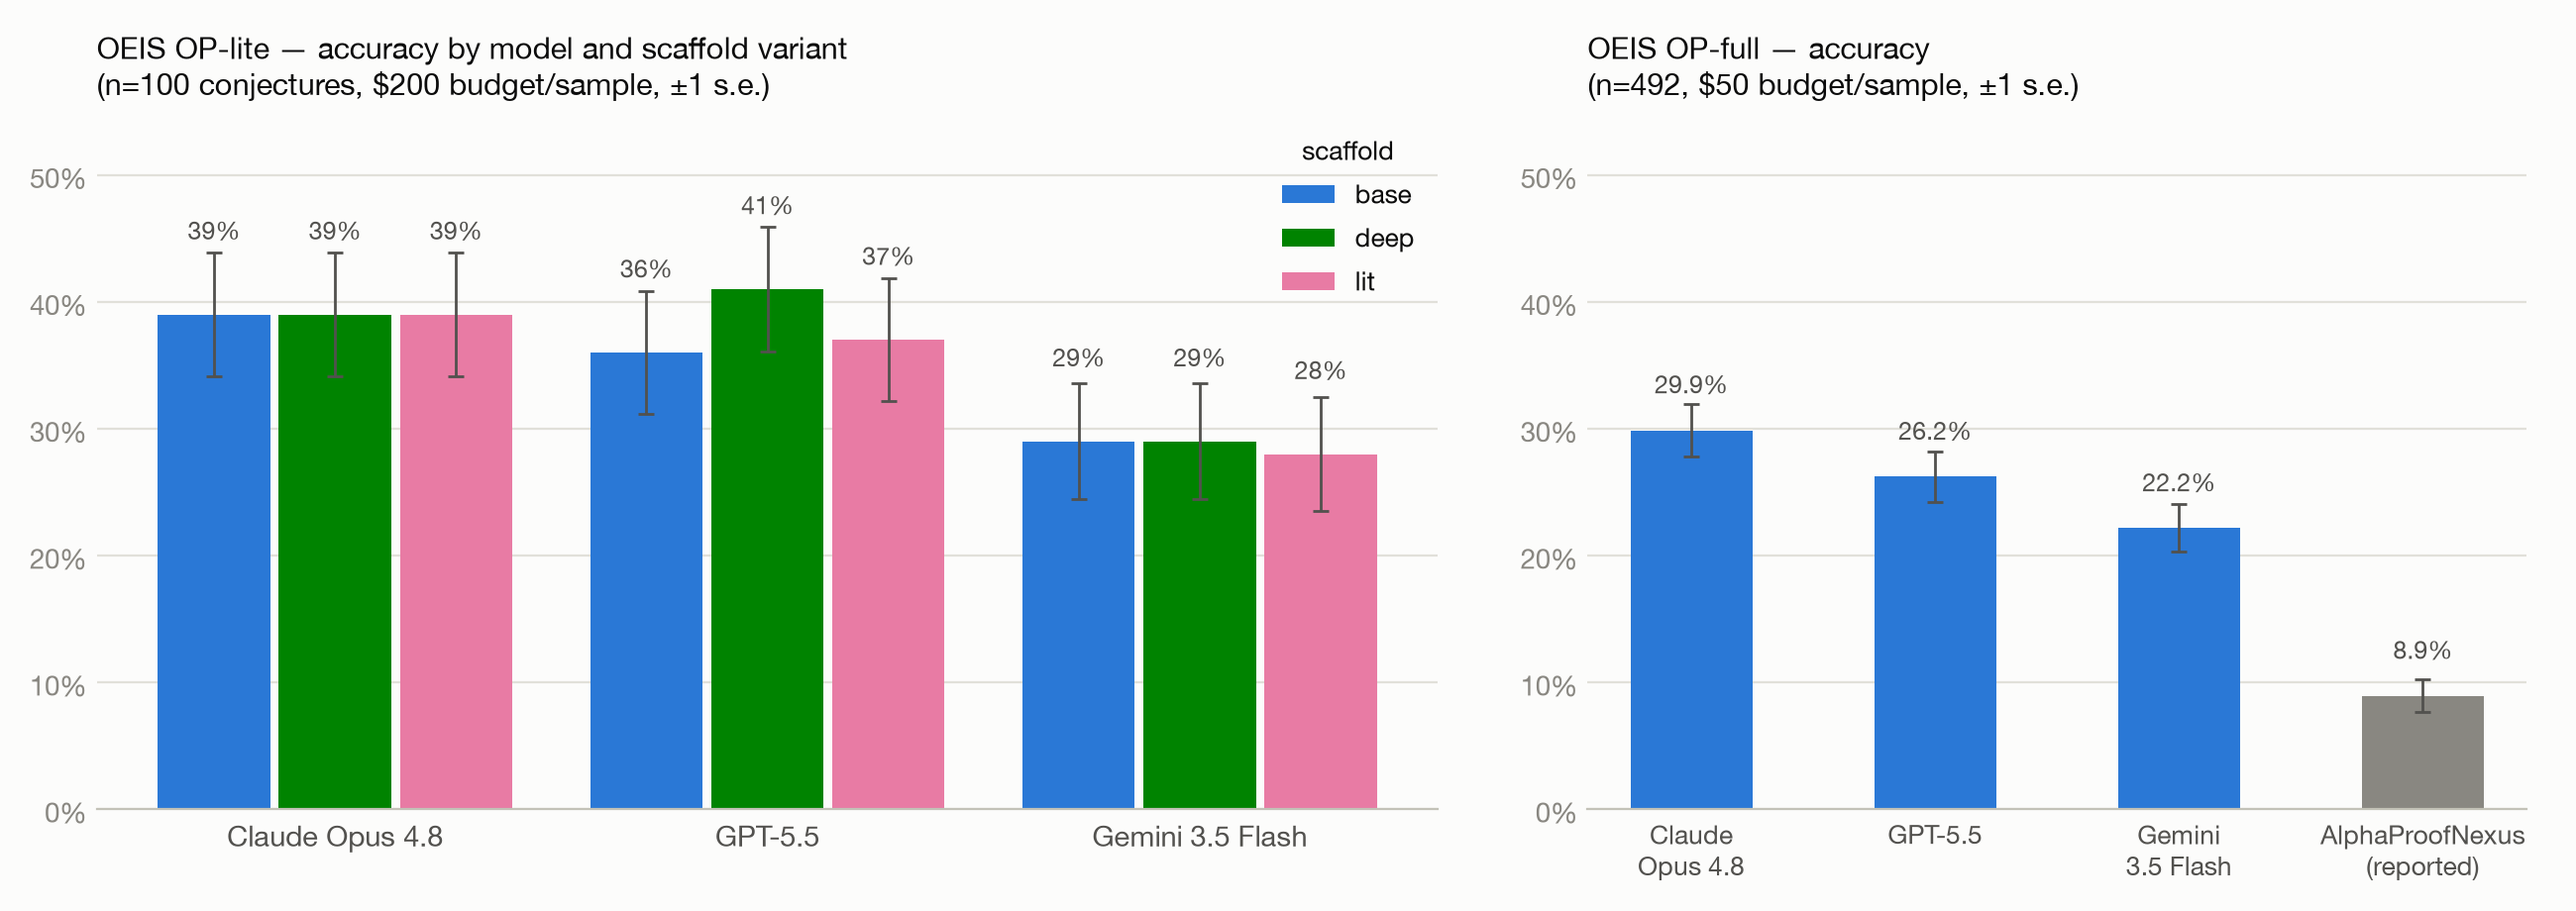
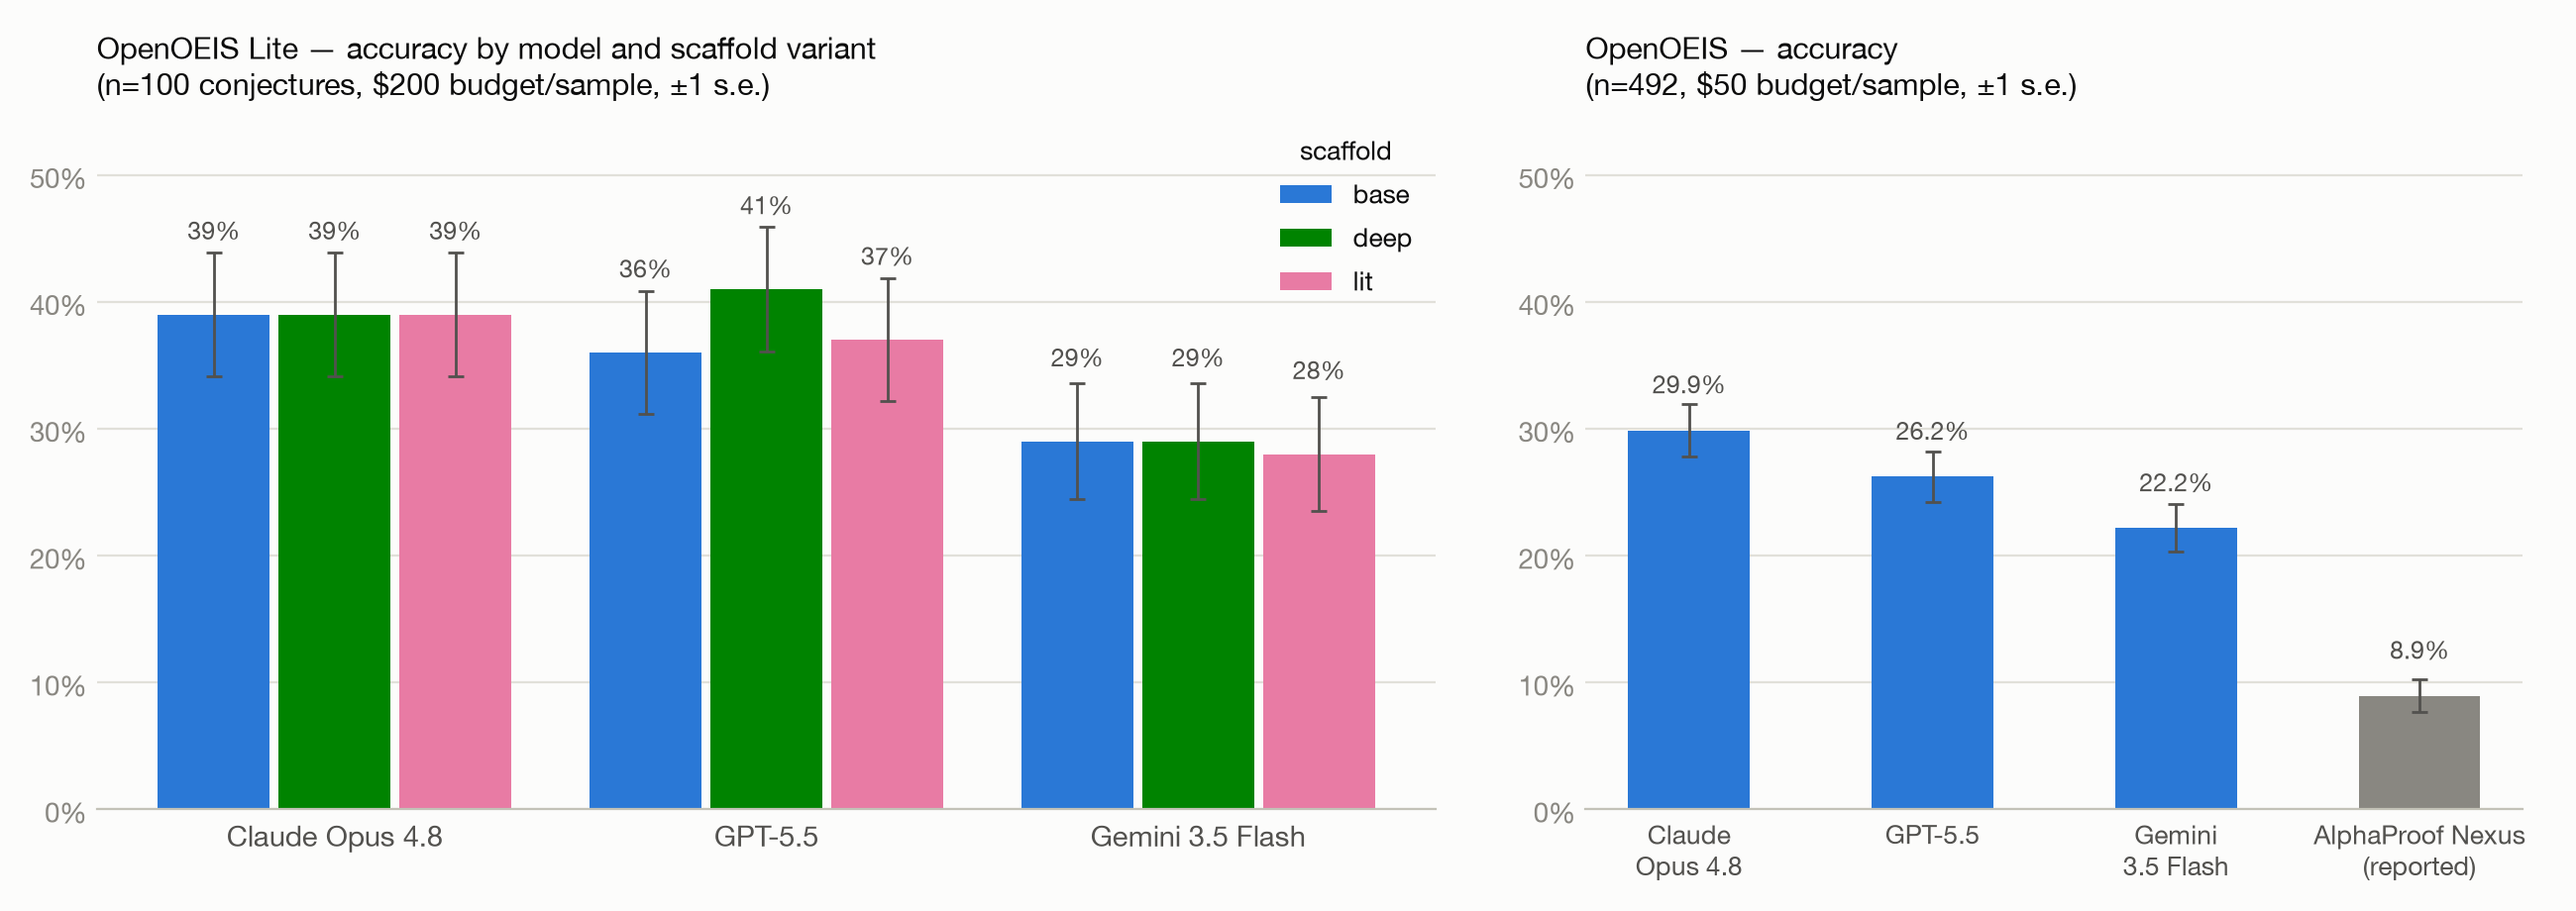
Name the benchmark once in plots/bench_names.py (now OpenOEIS); regen plots

diff --git a/plots/make_sample_plots.py b/plots/make_sample_plots.py
@@ -13,6 +13,8 @@ import matplotlib.pyplot as plt
 from matplotlib import rcParams
 from matplotlib.patches import Rectangle
 
+from bench_names import BENCH_FULL, BENCH_LITE
+
 LOGS = Path("logs")
 OUT = Path("plots")
 OUT.mkdir(exist_ok=True)
@@ -165,7 +167,7 @@ ax.text(ncol / 2, -1.0,
 for side in ("top", "right", "left", "bottom"):
     ax.spines[side].set_visible(False)
 ax.tick_params(length=0)
-ax.set_title(f"OEIS OP-lite — which conjectures each model solved\n"
+ax.set_title(f"{BENCH_LITE} — which conjectures each model solved\n"
              f"({len(ever)} conjectures solved by ≥1 run; paler shade = solved\n"
              f"by fewer of the 3 agent configs; cell label = mean cost of the\n"
              f"solving runs; rows sorted by mean solve cost; $200 budget/sample)",
@@ -177,8 +179,8 @@ print("wrote", OUT / "solve_matrix.png")
 # === plot 2: solved fraction vs spend ======================================
 fig, ax = plt.subplots(figsize=(8.2, 4.8))
 # full runs individually; lite runs pooled over the 3 agent configs per model
-curves = [([k], f"OEIS OP-full · {MODEL_LABELS[k[3]]}", "-") for k in full_keys]
-curves += [(lite_by_model[p], f"OEIS OP-lite · {MODEL_LABELS[p]}, 3-agent avg", (0, (4, 2)))
+curves = [([k], f"{BENCH_FULL} · {MODEL_LABELS[k[3]]}", "-") for k in full_keys]
+curves += [(lite_by_model[p], f"{BENCH_LITE} · {MODEL_LABELS[p]}, 3-agent avg", (0, (4, 2)))
            for p in PROVIDERS if lite_by_model[p]]
 for keys, label, style in curves:
     n = sum(len(samples[k]) for k in keys)
@@ -225,8 +227,8 @@ print("wrote", OUT / "solve_cost_curves.png")
 # blocks of rows: lite pooled over the 3 agent configs per model, full runs as-is
 lite_rows = [(lite_by_model[p], MODEL_LABELS[p]) for p in PROVIDERS if lite_by_model[p]]
 full_rows = [([k], MODEL_LABELS[k[3]]) for k in full_keys]
-blocks = [("OEIS OP-lite · $200 cap · pooled over base/deep/lit agent runs", lite_rows),
-          ("OEIS OP-full · $50 cap", full_rows)]
+blocks = [(f"{BENCH_LITE} · $200 cap · pooled over base/deep/lit agent runs", lite_rows),
+          (f"{BENCH_FULL} · $50 cap", full_rows)]
 row_defs = lite_rows + full_rows
 
 def pooled_shares(keys, extract):

diff --git a/plots/make_plots.py b/plots/make_plots.py
@@ -7,6 +7,8 @@ from pathlib import Path
 import matplotlib.pyplot as plt
 from matplotlib import rcParams
 
+from bench_names import ALPHAPROOF_NEXUS, BENCH_FULL, BENCH_LITE
+
 LOGS = Path("logs")
 OUT = Path("plots")
 OUT.mkdir(exist_ok=True)
@@ -87,7 +89,7 @@ for j, variant in enumerate(variants):
 ax1.set_xticks(range(len(providers)))
 ax1.set_xticklabels([MODEL_LABELS[p] for p in providers], fontsize=10.5)
 style_axis(ax1)
-ax1.set_title("OEIS OP-lite — accuracy by model and scaffold variant\n"
+ax1.set_title(f"{BENCH_LITE} — accuracy by model and scaffold variant\n"
               "(n=100 conjectures, $200 budget/sample, ±1 s.e.)",
               fontsize=11, loc="left", color=INK)
 ax1.legend(title="scaffold", frameon=False, fontsize=9.5, title_fontsize=9.5,
@@ -100,12 +102,12 @@ errs = [table[("full", "base", p)][1] for p in full_provs]
 labels = [MODEL_LABELS[p].replace(" ", "\n", 1) for p in full_provs]
 colors = ["#2a78d6"] * len(full_provs)
 
-# External reported baseline: AlphaProofNexus, 44/492 solved
+# External reported baseline: AlphaProof Nexus, 44/492 solved
 apn_acc = 44 / 492
 apn_err = (apn_acc * (1 - apn_acc) / 492) ** 0.5
 ys.append(apn_acc)
 errs.append(apn_err)
-labels.append("AlphaProofNexus\n(reported)")
+labels.append(f"{ALPHAPROOF_NEXUS}\n(reported)")
 colors.append(MUTED)
 
 xs = range(len(ys))
@@ -118,7 +120,7 @@ ax2.set_xticks(list(xs))
 ax2.set_xticklabels(labels, fontsize=9.5)
 style_axis(ax2)
 n_full = table[("full", "base", full_provs[0])][2]
-ax2.set_title(f"OEIS OP-full — accuracy\n(n={n_full}, $50 budget/sample, ±1 s.e.)",
+ax2.set_title(f"{BENCH_FULL} — accuracy\n(n={n_full}, $50 budget/sample, ±1 s.e.)",
               fontsize=11, loc="left", color=INK)
 missing = [p for p in providers if ("full", "base", p) not in table]
 if missing:

diff --git a/plots/make_price_to_solve.py b/plots/make_price_to_solve.py
@@ -1,7 +1,7 @@
 """Price-to-solve distribution treating unsolved samples as right-censored.
 
-Per model, one observation per OEIS OP-full conjecture (n=492):
-- the 100 conjectures also in OP-lite use the lite base run (censored at $200);
+Per model, one observation per full-set conjecture (n=492):
+- the 100 conjectures also in the lite set use the lite base run (censored at $200);
 - the remaining 392 use the full run (censored at $50).
 Failures are censored at their observed spend (usually the cap).
 
@@ -23,6 +23,8 @@ import matplotlib.pyplot as plt
 from matplotlib import rcParams
 from scipy.optimize import minimize
 from scipy.stats import norm
+
+from bench_names import BENCH
 
 LOGS = Path("logs")
 OUT = Path("plots")
@@ -166,7 +168,7 @@ for cap, lbl in [(50, "$50 cap\n(392 obs)"), (200, "$200 cap\n(100 obs)")]:
 ax.text(0.985, 0.03, "\n".join(notes), transform=ax.transAxes, ha="right",
         va="bottom", fontsize=8.5, color=INK2, linespacing=1.6)
 ax.set_xlabel("hypothetical price to solve (log scale)", fontsize=9.5, color=INK2)
-ax.set_title("OEIS OP — price-to-solve distribution, unsolved samples treated as\n"
+ax.set_title(f"{BENCH} — price-to-solve distribution, unsolved samples treated as\n"
              "right-censored: Kaplan–Meier (solid, one obs per conjecture,\n"
              "censored at \\$50 or \\$200) with two extrapolations past the data",
              fontsize=10.5, loc="left", color=INK)

diff --git a/plots/make_proposer_plot.py b/plots/make_proposer_plot.py
@@ -1,5 +1,5 @@
 """Conjectures per proposer (from apn/data/oeis/conjecture_provenance.jsonl)
-with solve outcomes, one plot per eval set (OEIS OP-lite and OP-full)."""
+with solve outcomes, one plot per eval set (lite and full)."""
 
 import json
 import glob
@@ -9,6 +9,8 @@ from pathlib import Path
 import matplotlib.pyplot as plt
 from matplotlib import rcParams
 from matplotlib.patches import Rectangle
+
+from bench_names import BENCH_FULL, BENCH_LITE
 
 LOGS = Path("logs")
 OUT = Path("plots")
@@ -95,11 +97,11 @@ def proposer_plot(solved, top_n, title, fname):
 
 proposer_plot(
     outcomes("oeis-full-*"), 12,
-    "OEIS OP-full — conjectures by proposer\n"
+    f"{BENCH_FULL} — conjectures by proposer\n"
     "(solved = ≥1 of the 3 full runs, \\$50/sample)",
     "proposer_solve_rate_full.png")
 proposer_plot(
     outcomes("oeis-lite-*"), 8,
-    "OEIS OP-lite — conjectures by proposer\n"
+    f"{BENCH_LITE} — conjectures by proposer\n"
     "(solved = ≥1 of the 9 lite runs, \\$200/sample)",
     "proposer_solve_rate_lite.png")

diff --git a/plots/make_citation_plots.py b/plots/make_citation_plots.py
@@ -1,5 +1,5 @@
 """Solve rate binned by citation metadata in apn/data/oeis (native OEIS page
-citations and OpenAlex citing works), for the OEIS OP-full and OP-lite runs."""
+citations and OpenAlex citing works), for the benchmark's full and lite runs."""
 
 import json
 import glob
@@ -9,6 +9,8 @@ from pathlib import Path
 
 import matplotlib.pyplot as plt
 from matplotlib import rcParams
+
+from bench_names import BENCH_FULL, BENCH_LITE
 
 LOGS = Path("logs")
 OUT = Path("plots")
@@ -71,9 +73,9 @@ NATIVE_LITE = [("0", 0, 0), ("1–2", 1, 2), ("3+", 3, 10**9)]
 OPENALEX = [("0", 0, 0), ("1+", 1, 10**9)]
 
 ROWS = [
-    ("OEIS OP-full · $50 cap · one run per model", full_frac, full_oeis,
+    (f"{BENCH_FULL} · $50 cap · one run per model", full_frac, full_oeis,
      NATIVE_FULL),
-    ("OEIS OP-lite · $200 cap · pooled over base/deep/lit agent runs", lite_frac,
+    (f"{BENCH_LITE} · $200 cap · pooled over base/deep/lit agent runs", lite_frac,
      lite_oeis, NATIVE_LITE),
 ]
 

diff --git a/plots/make_proof_disproof_plot.py b/plots/make_proof_disproof_plot.py
@@ -13,6 +13,8 @@ from pathlib import Path
 import matplotlib.pyplot as plt
 from matplotlib import rcParams
 
+from bench_names import BENCH_FULL, BENCH_LITE
+
 LOGS = Path("logs")
 OUT = Path("plots")
 
@@ -69,9 +71,9 @@ def shares(kind, prov):
     return mean_p, mean_d, err_t, n
 
 PANELS = [
-    ("lite", "OEIS OP-lite — solve rate by outcome\n"
+    ("lite", f"{BENCH_LITE} — solve rate by outcome\n"
              "(100 conjectures, $200 cap, pooled over base/deep/lit agent runs, ±1 s.e.)"),
-    ("full", "OEIS OP-full — solve rate by outcome\n"
+    ("full", f"{BENCH_FULL} — solve rate by outcome\n"
              "(492 conjectures, $50 cap, ±1 s.e.)"),
 ]
 

diff --git a/plots/bench_names.py b/plots/bench_names.py
@@ -1,0 +1,10 @@
+"""Display names for the benchmark, in one place because the name may change.
+
+Current names follow the paper draft: the full 492-conjecture set is plain
+"OpenOEIS"; the 100-conjecture subset is "OpenOEIS Lite".
+"""
+
+BENCH = "OpenOEIS"
+BENCH_FULL = BENCH
+BENCH_LITE = f"{BENCH} Lite"
+ALPHAPROOF_NEXUS = "AlphaProof Nexus"
